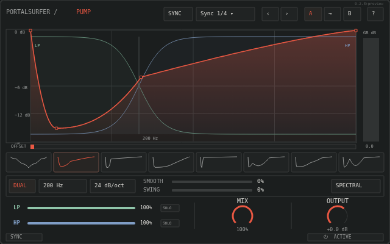
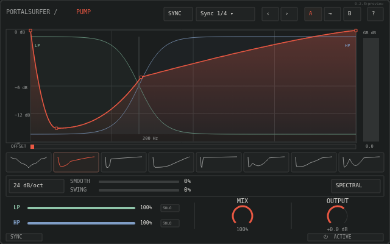
Remove dual enable and crossover frequency UI buttons

Changed region(s): [[0.2462, 0.7172, 0.6769, 0.8033], [0.0308, 0.7172, 0.2154, 0.8033]]

diff --git a/frame-standalone.html b/frame-standalone.html
@@ -120,10 +120,10 @@ button:focus-visible, select:focus-visible { outline: 2px solid #e95843; outline
     shapes.forEach((s,i)=>{const sx=10+i*78;rect(c,sx,250,74,32,2,i===1?'#272523':C.panel,i===1?'#715048':C.line);c.strokeStyle=i===1?C.accent:C.muted;c.lineWidth=1;curve(c,s,sx+7,257,60,18);});
     rect(c,10,288,620,34,1,C.bg,C.line);
     if(mode==='dual'){
-      button(c,'DUAL',15,294,43,true);button(c,'200 Hz',64,294,78);button(c,'24 dB/oct',148,294,74);
-      slider(c,'SMOOTH','0%',235,298,212);slider(c,'SWING','0%',235,312,212);button(c,'SPECTRAL',544,294,80);
+      button(c,'24 dB/oct',15,294,90);
+      slider(c,'SMOOTH','0%',115,298,212);slider(c,'SWING','0%',115,312,212);button(c,'SPECTRAL',544,294,80);
     }else{
-      button(c,'SPECTRAL',15,294,66,true);button(c,'12 dB',87,294,55);button(c,'10 ms',148,294,55);button(c,'150 ms',209,294,55);button(c,'DEPTH',270,294,50,true);slider(c,'SMOOTH','0%',329,298,190);slider(c,'SWING','0%',329,312,190);button(c,'DUAL',550,294,74);
+      button(c,'SPECTRAL',15,294,66,true);button(c,'12 dB',87,294,55);button(c,'10 ms',148,294,55);button(c,'150 ms',209,294,55);button(c,'DEPTH',270,294,50,true);slider(c,'SMOOTH','0%',329,298,190);slider(c,'SWING','0%',329,312,190);button(c,'BACK',550,294,74);
       for(let i=0;i<24;i++){const v=.12+.7*Math.exp(-Math.pow((i-9)/3,2));c.fillStyle='#526576';c.fillRect(435+i*5.5,83+35*(1-v),3,35*v);}text(c,'EXT · ILLUSTRATIVE',435,125,6,C.muted);
     }
     for(const dx of [319,478]){c.strokeStyle=C.line;c.beginPath();c.moveTo(dx,332);c.lineTo(dx,375);c.stroke();}

diff --git a/examples/pump.js b/examples/pump.js
@@ -33,10 +33,10 @@
     shapes.forEach((s,i)=>{const sx=10+i*78;rect(c,sx,250,74,32,2,i===1?'#272523':C.panel,i===1?'#715048':C.line);c.strokeStyle=i===1?C.accent:C.muted;c.lineWidth=1;curve(c,s,sx+7,257,60,18);});
     rect(c,10,288,620,34,1,C.bg,C.line);
     if(mode==='dual'){
-      button(c,'DUAL',15,294,43,true);button(c,'200 Hz',64,294,78);button(c,'24 dB/oct',148,294,74);
-      slider(c,'SMOOTH','0%',235,298,212);slider(c,'SWING','0%',235,312,212);button(c,'SPECTRAL',544,294,80);
+      button(c,'24 dB/oct',15,294,90);
+      slider(c,'SMOOTH','0%',115,298,212);slider(c,'SWING','0%',115,312,212);button(c,'SPECTRAL',544,294,80);
     }else{
-      button(c,'SPECTRAL',15,294,66,true);button(c,'12 dB',87,294,55);button(c,'10 ms',148,294,55);button(c,'150 ms',209,294,55);button(c,'DEPTH',270,294,50,true);slider(c,'SMOOTH','0%',329,298,190);slider(c,'SWING','0%',329,312,190);button(c,'DUAL',550,294,74);
+      button(c,'SPECTRAL',15,294,66,true);button(c,'12 dB',87,294,55);button(c,'10 ms',148,294,55);button(c,'150 ms',209,294,55);button(c,'DEPTH',270,294,50,true);slider(c,'SMOOTH','0%',329,298,190);slider(c,'SWING','0%',329,312,190);button(c,'BACK',550,294,74);
       for(let i=0;i<24;i++){const v=.12+.7*Math.exp(-Math.pow((i-9)/3,2));c.fillStyle='#526576';c.fillRect(435+i*5.5,83+35*(1-v),3,35*v);}text(c,'EXT · ILLUSTRATIVE',435,125,6,C.muted);
     }
     for(const dx of [319,478]){c.strokeStyle=C.line;c.beginPath();c.moveTo(dx,332);c.lineTo(dx,375);c.stroke();}

diff --git a/README.md b/README.md
@@ -40,4 +40,4 @@ The main envelope view includes a crossover overlay spanning the full graph with
 
 Smooth and Swing use horizontal sliders without handles; Mix and Output retain their rotary knobs.
 
-The composition groups stacked LP/HP mix sliders beside Mix/Output, with Smooth/Swing in the compact strip immediately below the curve presets. Dual activation lives with its band controls.
+The composition groups stacked LP/HP mix sliders beside Mix/Output, with Smooth/Swing in the compact strip immediately below the curve presets. The strip retains the crossover slope and spectral settings; dual enable and crossover frequency remain host parameters.
